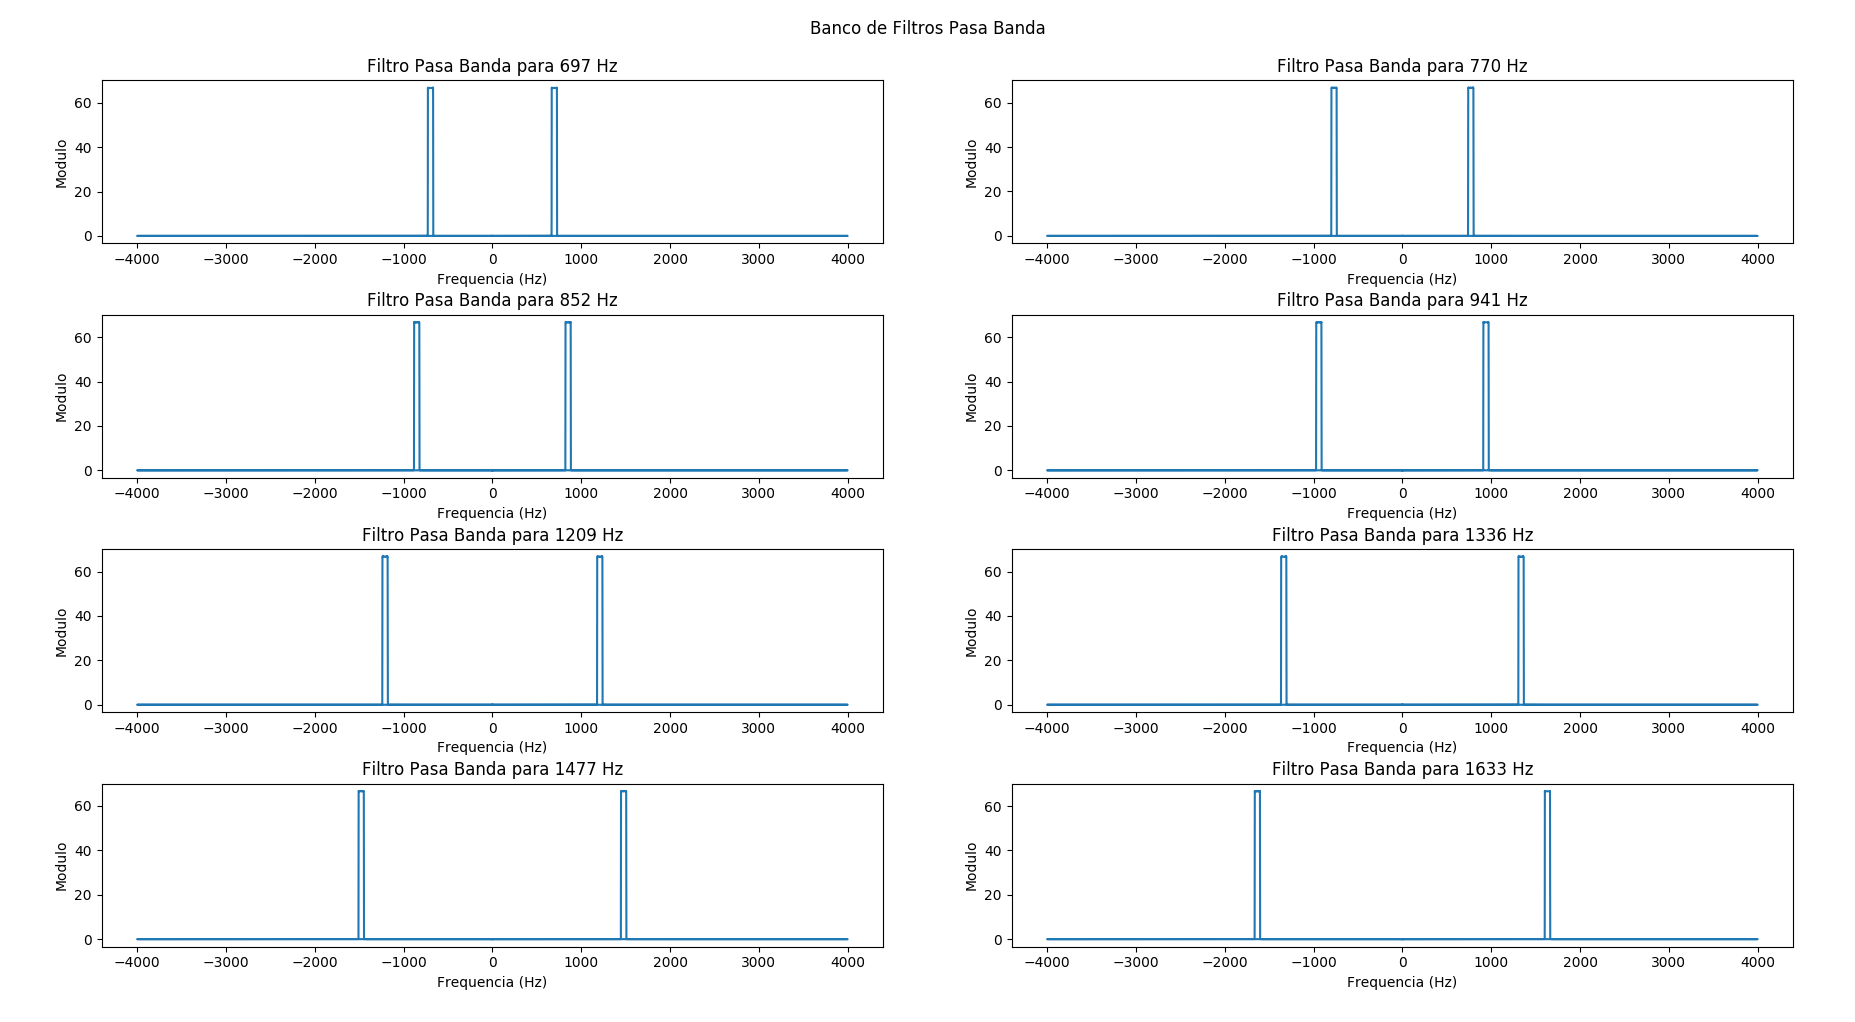
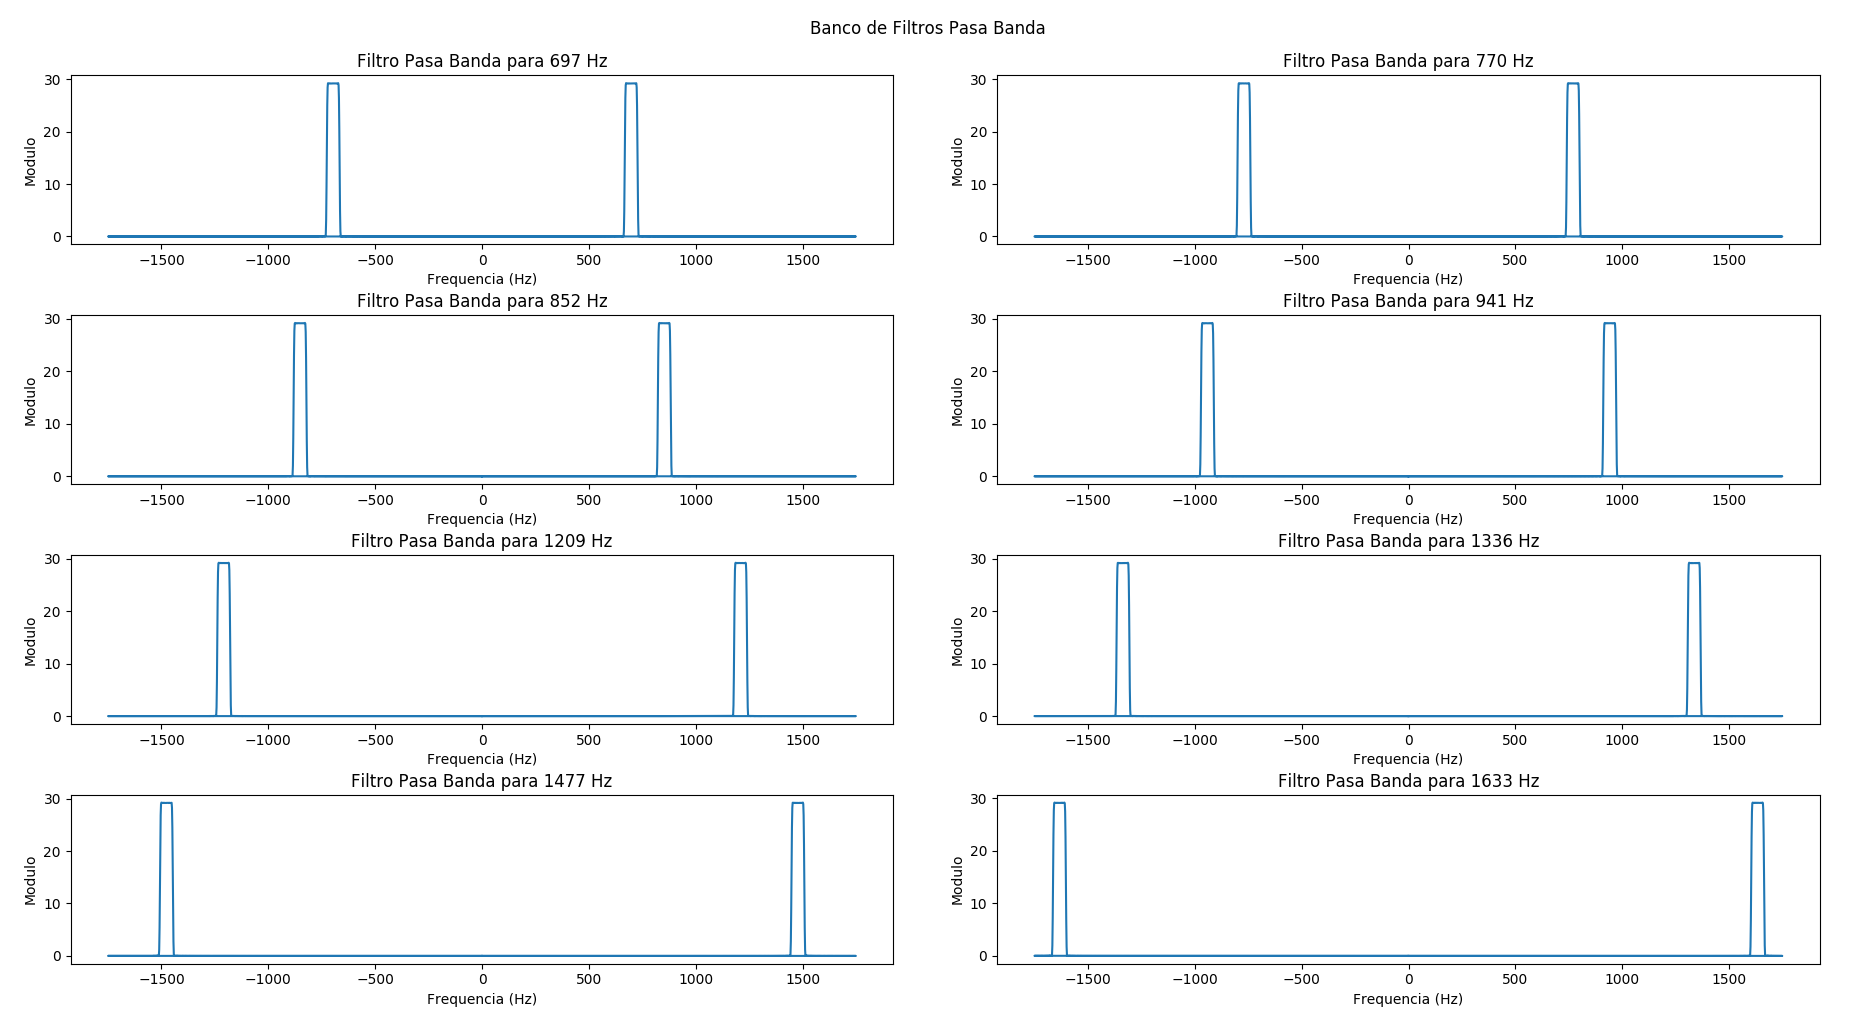
Exercise 8 and 9 fixed, exercise 10 completed

diff --git a/modules/ejercicio9.py b/modules/ejercicio9.py
@@ -1,6 +1,5 @@
 #!/bin/python3
 
-import pdb
 import numpy as np
 from modules.utils import show_signal, fft, t_axis
 from modules.dfmt_signals import *
@@ -9,11 +8,10 @@ from matplotlib import pyplot as plt
 def plot_pass_band_filters():
     plt.figure()
     plt.suptitle('Banco de Filtros Pasa Banda')
-    plt.adjust
 
     for idx, frequency in enumerate(POSSIBLE_FREQUENCIES):
-        pb_filter = pass_band_filter(2,DEFAULT_FS,frequency)
-        magnitude, angle, freq = fft(DEFAULT_FS, pb_filter)
+        pb_filter, fs = pass_band_filter(DEFAULT_FS, frequency)
+        magnitude, angle, freq = fft(fs, pb_filter)
         plt.subplot(4,2,idx+1)
         plt.plot(freq, magnitude)
         plt.title('Filtro Pasa Banda para {} Hz'.format(frequency))
@@ -24,31 +22,33 @@ def plot_pass_band_filters():
     plt.show()
 
 
-def pass_band_filter(fc):
-    duration = 15
-    fs = DEFAULT_FS
-    samples = np.linspace(-duration//2, duration//2, int(4*fs*0.07), endpoint=False)
-    sinc = np.sinc(samples)
-    show_signal(fs, sinc, 'Sinc')
-    plt.show()
-    sinc *= np.cos(2*np.pi*(fc/53)*samples)
+def pass_band_filter(fs, fc):
+    quantity_samples = TIME_DIGIT * DEFAULT_FS
+    duration = quantity_samples / fs 
+ 
+    samples = np.linspace(-duration/2, duration/2, quantity_samples, endpoint=False)
+  
+    width_pulse = 60
+    sinc = np.sinc(width_pulse*samples)
+    
+    sinc *= np.cos(2*np.pi*fc*samples)
     sinc *= np.hamming(len(sinc))
-    # return sinc
+    return sinc, fs
+    
     # show_signal(fs, sinc, 'Sinc')
-    # plt.savefig('img/ej9_sinc_time.png', bbox_inches='tight')
-    # plt.close()
+    # plt.show()
+    # plt.savefig('img/ej9_sinc_time_hamming_window.png', bbox_inches='tight')
 
-    magnitude, angle, freq = fft(fs, sinc)
-    plt.plot(freq, magnitude)
-    plt.title('DFT Sinc Sin Ventaneo')
-    plt.xlabel('Frequencia (Hz)')
-    plt.ylabel('Modulo')
-    plt.show()
+    # magnitude, angle, freq = fft(fs, sinc)
+    # plt.plot(freq, magnitude)
+    # plt.title('DFT Sinc sin ventaneo')
+    # plt.xlabel('Frequencia (Hz)')
+    # plt.ylabel('Modulo')
     # plt.xlim(-50,50)
-    # plt.savefig('img/ej9_sinc_dft_no_window.png', bbox_inches='tight')
-    plt.close()
+    # plt.show()
+    # plt.savefig('img/ej9_sinc_dft_hamming_window.png', bbox_inches='tight')
 
-def energy_estimator(fs, signal):
+def energy_estimator(signal):
     squared_signal = signal ** 2
     
     length_filter = 64
@@ -61,19 +61,21 @@ def plot_filter_bank(fs, data):
 
     plt.figure()
     plt.suptitle('Energía de corto tiempo para señal Y')
+    # plt.suptitle('Señal Y filtrado por banco de filtros')
 
     for idx, frequency in enumerate(POSSIBLE_FREQUENCIES):
-        pb_filter = pass_band_filter(2, fs, frequency)
+        pb_filter, fs_pbf = pass_band_filter(fs, frequency)
 
         y[frequency] = np.convolve(data, pb_filter)
 
-        estimated_energy = energy_estimator(fs, y[frequency])
+        estimated_energy = energy_estimator(y[frequency])
 
         plt.subplot(4, 2, idx+1)
-        plt.plot(t_axis(fs,len(estimated_energy)), estimated_energy)
+        plt.plot(t_axis(fs, len(estimated_energy)), estimated_energy)
         plt.title("Energía estimada para señal Y con pasa bandas {} Hz".format(frequency))
+        # plt.title("Señal Y filtrada con pasa bandas {} Hz".format(frequency))
         plt.xlabel("Tiempo (s)")
-        plt.ylabel("Energia")
+        plt.ylabel("Amplitud")
 
     plt.show()
 
@@ -81,15 +83,15 @@ def filter_bank(fs, data):
     energy_idxs_by_frequency = {}
 
     for frequency in POSSIBLE_FREQUENCIES:
-        pb_filter = pass_band_filter(2, fs, frequency)
+        pb_filter, fs_pbf = pass_band_filter(fs, frequency)
 
         y = np.convolve(data, pb_filter)
 
-        estimated_energy = energy_estimator(fs, y)
+        estimated_energy = energy_estimator(y)
 
         max_energy = np.max(estimated_energy)
         normalized_energy = estimated_energy / max_energy
-        threshold = 0.7
+        threshold = 0.6
 
         energy_idxs = np.where(normalized_energy > threshold)[0]
 
@@ -126,12 +128,12 @@ def filter_bank(fs, data):
     return sequence
 
 def ejercicio9():
-    # sequence_digits = ['1','2','3','A','4','5','6','B','7','8','9','C','*','0','#','D']
-    # signal = dfmt_generator_with(sequence_digits)
+    sequence_digits = ['1','2','3','A','4','5','6','B','7','8','9','C','*','0','#','D']
+    signal = dfmt_generator_with(sequence_digits)
+    #signal += np.random.normal(0,1,len(signal))
+    #show_signal(DEFAULT_FS, signal, 'Señal con ruido')
+    #plt.show()
+    estimated_sequence = filter_bank(DEFAULT_FS, signal)
 
-    # estimated_sequence = filter_bank(DEFAULT_FS, signal)
-
-    # print('Real sequence: {}'.format(sequence_digits))
-    # print('Estimated sequence: {}'.format(estimated_sequence))
-
-    pass_band_filter(697)
+    print('Real sequence: {}'.format(sequence_digits))
+    print('Estimated sequence: {}'.format(estimated_sequence))

diff --git a/modules/ejercicio3.py b/modules/ejercicio3.py
@@ -38,34 +38,56 @@ def plot_spectogram(fs, data, window, window_name):
     plt.savefig('img/ej3_spectrogam_{}.png'.format(window_name),bbox_inches='tight')
     plt.close()
 
+def plot_windows():
+    N = 400
+    rect = np.ones(N)
+    hamming = np.hamming(N)
+
+    plt.title('Comparación ventana rectangular y ventana de Hamming')
+    plt.xlabel('Frequency [Hz]')
+    plt.ylabel('Magnitude [dB]')
+
+    magnitude, phase, freq = fft(N, rect)
+    magnitude_db = 10 * np.log10(magnitude)
+    plt.plot(freq, magnitude_db, label='Rectangular')
+
+    magnitude, phase, freq = fft(N, hamming)
+    magnitude_db = 10 * np.log10(magnitude)
+    plt.plot(freq, magnitude_db, label='Hamming')
+    plt.legend(loc='upper left')
+
+    plt.show()
+
 
 def ejercicio3(fs, data):
-    first_digit = data[int(3.36*fs):int(3.45*fs)]
-    magnitude, phase, freq = fft(fs, first_digit)
-    show_fft_digit_signal(freq, magnitude, 'First digit')
+    # first_digit = data[int(3.36*fs):int(3.45*fs)]
+    # magnitude, phase, freq = fft(fs, first_digit)
+    # show_fft_digit_signal(freq, magnitude, 'First digit')
 
-    second_digit = data[int(3.52*fs):int(3.61*fs)]
-    magnitude, phase, freq = fft(fs, second_digit)
-    show_fft_digit_signal(freq, magnitude, 'Second digit')
+    # second_digit = data[int(3.52*fs):int(3.61*fs)]
+    # magnitude, phase, freq = fft(fs, second_digit)
+    # show_fft_digit_signal(freq, magnitude, 'Second digit')
 
-    third_digit = data[int(3.67*fs):int(3.76*fs)]
-    magnitude, phase, freq = fft(fs, third_digit)
-    show_fft_digit_signal(freq, magnitude, 'Third digit')
+    # third_digit = data[int(3.67*fs):int(3.76*fs)]
+    # magnitude, phase, freq = fft(fs, third_digit)
+    # show_fft_digit_signal(freq, magnitude, 'Third digit')
 
-    fourth_digit = data[int(3.83*fs):int(3.91*fs)]
-    magnitude, phase, freq = fft(fs, fourth_digit)
-    show_fft_digit_signal(freq, magnitude, 'Fourth digit')
+    # fourth_digit = data[int(3.83*fs):int(3.91*fs)]
+    # magnitude, phase, freq = fft(fs, fourth_digit)
+    # show_fft_digit_signal(freq, magnitude, 'Fourth digit')
 
-    Fifth_digit = data[int(3.98*fs):int(4.06*fs)]
-    magnitude, phase, freq = fft(fs, Fifth_digit)
-    show_fft_digit_signal(freq, magnitude, 'Fifth digit')
+    # Fifth_digit = data[int(3.98*fs):int(4.06*fs)]
+    # magnitude, phase, freq = fft(fs, Fifth_digit)
+    # show_fft_digit_signal(freq, magnitude, 'Fifth digit')
 
-    magnitude, phase, freq = fft(fs, data)
-    show_fft_digit_signal(freq, magnitude, 'Modem Dialing')
+    # magnitude, phase, freq = fft(fs, data)
+    # show_fft_digit_signal(freq, magnitude, 'Modem Dialing')
 
-    plot_spectogram(fs,data,np.ones,'rectangular')
-    plot_spectogram(fs,data,np.hanning,'de hanning')
-    plot_spectogram(fs,data,np.hamming,'de  hamming')
+    # plot_spectogram(fs,data,np.ones,'rectangular')
+    # plot_spectogram(fs,data,np.hanning,'de hanning')
+    # plot_spectogram(fs,data,np.hamming,'de  hamming')
+
+    plot_windows()
 
     # fig, ax = plt.subplots(nrows=4, ncols=4)
     # fig.subplots_adjust(hspace=0.5, wspace=0.5)

diff --git a/modules/ejercicio8.py b/modules/ejercicio8.py
@@ -24,18 +24,18 @@ def decode_signal(signal):
     squared_signal = signal ** 2
     length_filter = 64
     moving_average_filter = np.ones(length_filter) / length_filter
-    show_signal(1, np.pad(moving_average_filter,(10,10),mode='constant'), 'Filtro Moving Average', normalized=False)
-    plt.savefig('img/ej8_moving_average_filter.png',bbox_inches='tight')
-    plt.close()
+    # show_signal(1, np.pad(moving_average_filter,(10,10),mode='constant'), 'Filtro Moving Average', normalized=False)
+    # plt.savefig('img/ej8_moving_average_filter.png',bbox_inches='tight')
+    # plt.close()
     energy = np.convolve(squared_signal, moving_average_filter)
-    show_signal(DEFAULT_FS, energy, 'Energia de la señal con delay')
-    plt.savefig('img/ej8_estimated_energy_delay.png',bbox_inches='tight')
-    plt.close()
+    # show_signal(DEFAULT_FS, energy, 'Energia de la señal con delay')
+    # plt.savefig('img/ej8_estimated_energy_delay.png',bbox_inches='tight')
+    # plt.close()
     energy = energy[1+length_filter//2:]
 
-    show_signal(DEFAULT_FS, energy, 'Energia de la Señal')
-    plt.savefig('img/ej8_estimated_energy.png', bbox_inches='tight')
-    plt.close()
+    # show_signal(DEFAULT_FS, energy, 'Energia de la Señal')
+    # plt.savefig('img/ej8_estimated_energy.png', bbox_inches='tight')
+    # plt.close()
 
     max_energy = np.max(energy)
     normalized_energy = energy / max_energy
@@ -69,13 +69,14 @@ def decode_signal(signal):
             frequency = lobe * 4000 /magnitude.size
             lobes.append(nearest_possible_frequency(frequency))  
 
+        lobes = lobes[lobes != np.array(None)]
         lobe_frequencies = np.unique(lobes)
 
         sequence.append(frequencies_to_digit(lobe_frequencies))
 
     return sequence
 
-def ejercicio8():
+def ejercicio8(fs, data):
     sequence_digits = ['3','2','3','2','7']
     signal = dfmt_generator_with(sequence_digits)
 

diff --git a/modules/ejercicio10.py b/modules/ejercicio10.py
@@ -1,0 +1,55 @@
+#!/bin/python3
+
+import numpy as np
+from scipy.signal import tf2zpk
+from matplotlib import pyplot as plt
+from modules.dfmt_signals import *
+from modules.ejercicio9 import pass_band_filter
+from modules.utils import fft
+
+def plot_pole_zero_map():
+    plt.figure()
+    plt.suptitle('Banco de Filtros - Diagrama de polos y zeros')
+
+    for idx, frequency in enumerate(POSSIBLE_FREQUENCIES):
+        pb_filter, fs = pass_band_filter(DEFAULT_FS, frequency)
+
+        denominator = np.zeros(len(pb_filter))
+        denominator[0] = 1
+
+        zeros, poles, gain = tf2zpk(pb_filter, denominator)
+
+        plt.subplot(4,2,idx+1)
+        plt.plot(np.real(zeros), np.imag(zeros), 'ob', markerfacecolor='None')
+        plt.plot(np.real(poles), np.imag(poles), 'xb')
+        plt.grid()
+        plt.xlim([-1.5,1.5])
+        plt.ylim([-1.5,1.5])
+        plt.xlabel('Re(Z)')
+        plt.ylabel('Im(Z)')
+        plt.title('Diagrama de polos y ceros para pasabanda de {} Hz'.format(frequency))
+        
+
+    plt.show()
+
+def plot_phase():
+    plt.figure()
+    plt.suptitle('Banco de Filtros - Fase de DFT')
+
+    for idx, frequency in enumerate(POSSIBLE_FREQUENCIES):
+        pb_filter, fs = pass_band_filter(DEFAULT_FS, frequency)
+
+        magnitude, phase, freq = fft(fs, pb_filter)
+
+        plt.subplot(4,2,idx+1)
+        plt.plot(freq, phase)
+        plt.xlim([frequency-50,frequency+50])
+        plt.title('Filtro Pasa Banda para {} Hz'.format(frequency))
+        plt.xlabel('Frequencia (Hz)')
+        plt.ylabel('Fase')
+
+    plt.show()
+
+def ejercicio10():
+    #plot_pole_zero_map()
+    plot_phase()

diff --git a/modules/dfmt_signals.py b/modules/dfmt_signals.py
@@ -41,11 +41,13 @@ def nearest_possible_frequency(frequency):
     return None
 
 def frequencies_to_digit(frequencies):
-    for digit, digit_frequencies in DFMT_SIGNALS.items():
-        if frequencies[0] == digit_frequencies[0] and frequencies[1] == digit_frequencies[1]:
-            return digit
+    result = []
 
-    return None
+    for digit, digit_frequencies in DFMT_SIGNALS.items():
+        if digit_frequencies[0] in frequencies and digit_frequencies[1] in frequencies:
+            result.append(digit)
+
+    return result
 
 def dfmt_signal_for(digit, fs=DEFAULT_FS, duration=TIME_DIGIT, use_window=False):
     return sin(DFMT_SIGNALS[digit][0], fs, duration,use_window=use_window) + sin(DFMT_SIGNALS[digit][1], fs, duration,use_window=use_window)

diff --git a/modules/utils.py b/modules/utils.py
@@ -47,9 +47,16 @@ def fft(fs,signal):
     N = int(np.exp2(np.ceil(np.log2(len(signal)))))
     padded_signal = np.pad(signal,(0,N-len(signal)),'constant')
     Y = np.fft.fft(padded_signal)
+
+    magnitude = np.abs(Y)
+    angle = np.angle(Y)
     freq = np.fft.fftfreq(len(padded_signal), 1/fs)
-    
-    return np.abs(Y), np.angle(Y), freq
+
+    magnitude = np.append(magnitude[len(magnitude)//2:], magnitude[:len(magnitude)//2])
+    angle = np.append(angle[len(angle)//2:], angle[:len(angle)//2])
+    freq = np.append(freq[len(freq)//2:], freq[:len(freq)//2])
+        
+    return magnitude, angle, freq
 
 def show_spectogram(fs, data, nfft, window,title):
     plt.specgram(data, Fs=fs, window=window, NFFT=nfft, noverlap=nfft/2)

diff --git a/main.py b/main.py
@@ -10,6 +10,7 @@ from modules.ejercicio6 import ejercicio6
 from modules.ejercicio7 import ejercicio7
 from modules.ejercicio8 import ejercicio8
 from modules.ejercicio9 import ejercicio9
+from modules.ejercicio10 import ejercicio10
 
 def read_wavfile():
     filepath = 'modemDialing.wav'
@@ -19,7 +20,7 @@ def read_wavfile():
 
 def main():
     fs, data = read_wavfile()
-    ejercicio9()
+    ejercicio8(fs, data)
     
 if __name__ == "__main__":
     main()
